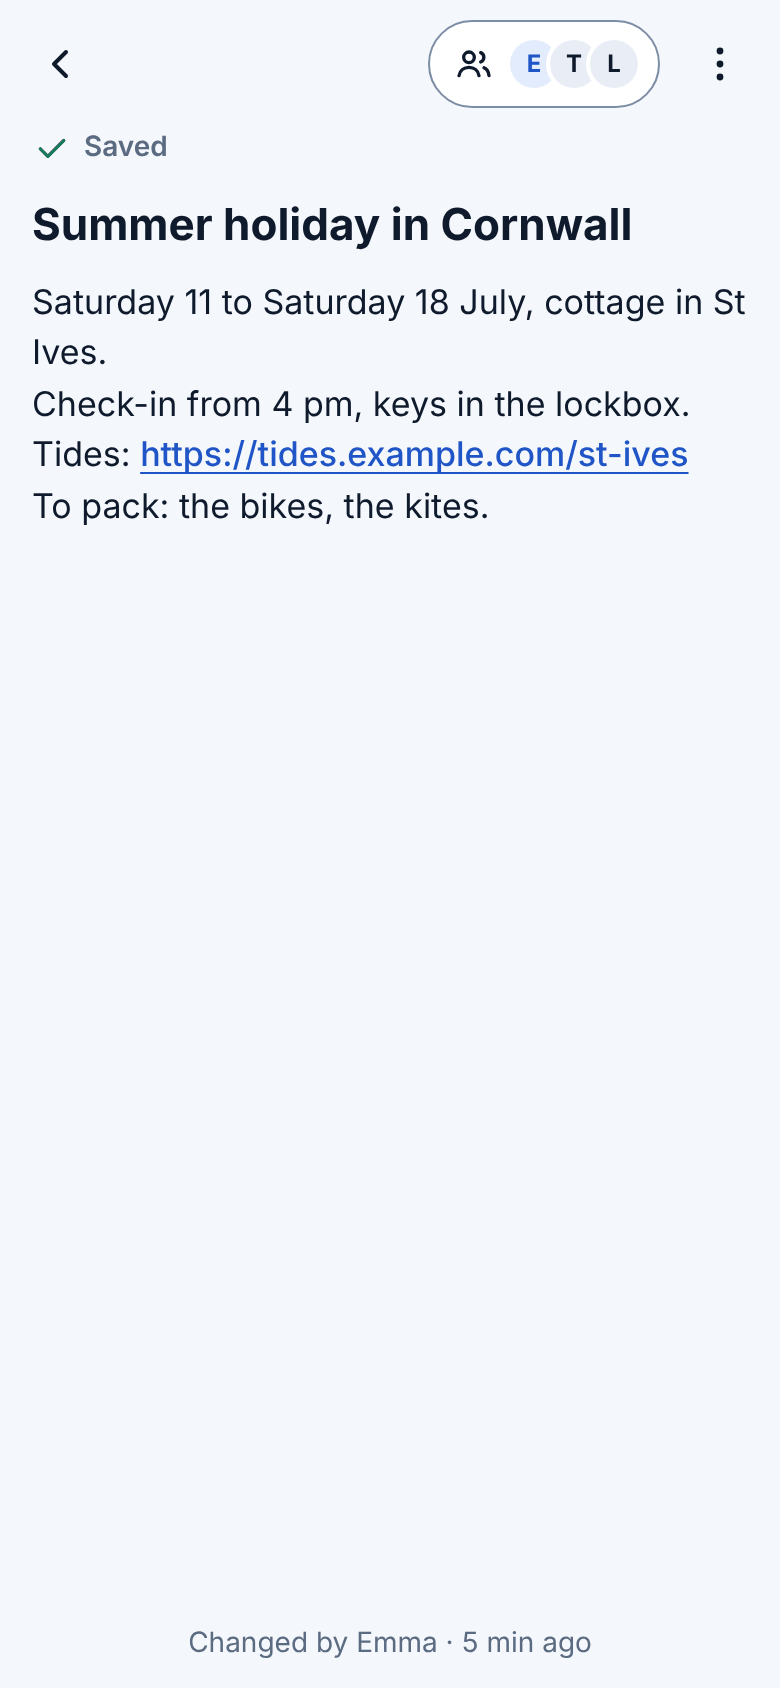
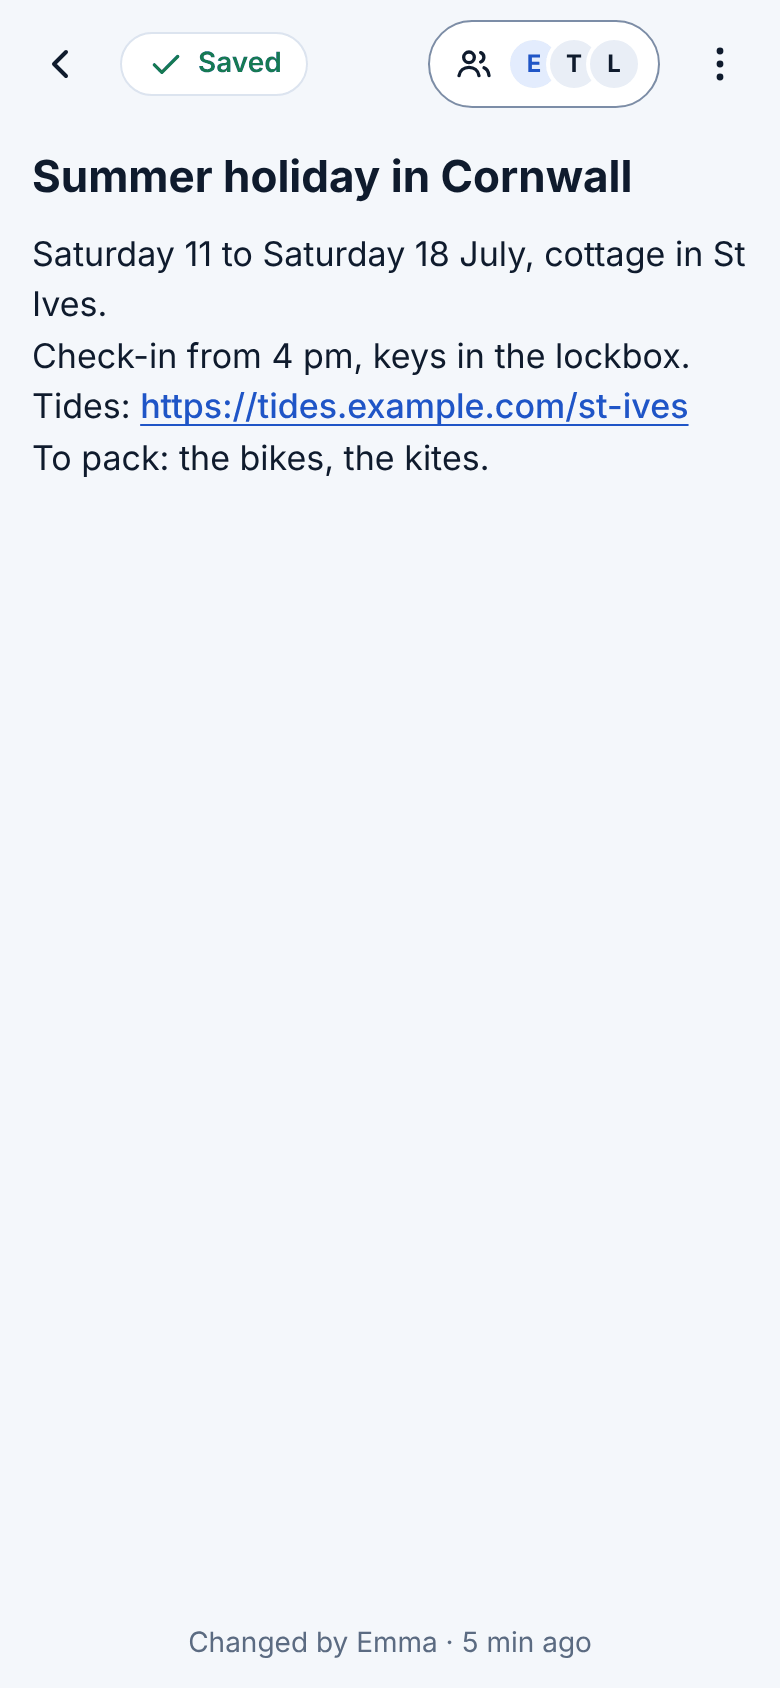
Note : « Enregistré » dans la barre du haut
La mention d'état d'une note devient une pastille dans la barre du haut,
comme « À jour » ailleurs (texte court sur le téléphone, phrase complète
pour les lecteurs d'écran) : la note gagne une ligne. Captures du README
de la note refaites.

Claude-Session: https://claude.ai/code/session_01RoZ4edsPjQcz3aEDFj3cbP

Changed region(s): [[0.0308, 0.0616, 0.9538, 0.3081], [0.2462, 0.0308, 0.3692, 0.0616]]

diff --git a/public/js/screens/note.js b/public/js/screens/note.js
@@ -198,24 +198,35 @@ export function noteEditor(initialId, onLeave, { pc }) {
     saveNow();
   });
 
-  // --- Mention d'état, bandeau, pied ---
-  const status = h('p', { class: 'note-status', role: 'status' });
+  // --- Mention d'état (pastille dans la barre du haut, comme « À jour »
+  // ailleurs ; décision du 23 novembre 2026), bandeau, pied ---
+  const status = h('p', { class: 'sync note-status', role: 'status', hidden: true });
   const banner = h('div', { class: 'note note-banner', role: 'alert', hidden: true });
   const foot = h('p', { class: 'note-foot' });
 
+  // [classe, icône, texte court affiché, texte complet lu] ; sur le
+  // téléphone la pastille montre le texte court (place de la barre du
+  // haut), les lecteurs d'écran lisent la phrase complète
   function drawStatus() {
     let state;
-    if (kept()) state = ['note-status--check', 'alert', t(pc ? 'notes.statut.aVerifier.pc' : 'notes.statut.aVerifier')];
-    else if (readOnly()) state = ['', 'eye', t('notes.statut.lectureSeule')];
+    if (kept()) state = ['note-status--check', 'alert', t('notes.aVerifier'), t(pc ? 'notes.statut.aVerifier.pc' : 'notes.statut.aVerifier')];
+    else if (readOnly()) state = ['', 'eye', t('notes.statut.lectureSeule'), t('notes.statut.lectureSeule')];
     else if (dirty || saving || (noteId && actions.notePending(noteId))) {
       state = currentSyncState() === 'off' && !dirty
-        ? ['', 'cloud-off', t(pc ? 'notes.statut.horsLigne.pc' : 'notes.statut.horsLigne')]
-        : ['', 'sync', t('notes.statut.enCours')];
-    } else if (noteId && note() && !note().deletedAt) state = ['note-status--ok', 'check', t('notes.statut.enregistre')];
+        ? ['sync--off', 'cloud-off', t('notes.statut.horsLigne.court'), t(pc ? 'notes.statut.horsLigne.pc' : 'notes.statut.horsLigne')]
+        : ['sync--busy', 'sync', t('notes.statut.enCours'), t('notes.statut.enCours')];
+    } else if (noteId && note() && !note().deletedAt) state = ['sync--ok', 'check', t('notes.statut.enregistre'), t('notes.statut.enregistre')];
     // (note introuvable ou supprimée : aucune mention, seulement « Note introuvable »)
     else state = null;
-    status.className = `note-status ${state?.[0] ?? ''}`.trim();
-    replace(status, state ? [icon(state[1], 'icon--sm'), state[2]] : null);
+    status.className = `sync note-status ${state?.[0] ?? ''}`.trim();
+    status.hidden = !state;
+    // Ordinateur : la phrase complète tient dans la barre de la note
+    const shown = state ? (pc ? state[3] : state[2]) : '';
+    replace(status, state ? [
+      icon(state[1], 'icon--sm'),
+      h('span', { class: 'sync__text', 'aria-hidden': shown === state[3] ? null : 'true' }, shown),
+      shown === state[3] ? null : h('span', { class: 'visually-hidden' }, state[3]),
+    ] : null);
   }
 
   // Qui a écrit la version actuelle : « Léa », ou moi (sur un autre appareil)
@@ -417,18 +428,18 @@ export function noteEditor(initialId, onLeave, { pc }) {
   if (isNew) queueMicrotask(() => edit(0));
 
   if (pc) {
-    const bar = h('div', { class: 'pc-note__bar' }, h('span', { class: 'grow' }), peopleButton, pinButton, menuButton,
+    const bar = h('div', { class: 'pc-note__bar' }, status, h('span', { class: 'grow' }), peopleButton, pinButton, menuButton,
       iconButton('close', t('notes.fermer'), () => navigate('notes', {}, { replace: true })));
-    return h('section', { class: 'pc-note', 'aria-labelledby': heading.id }, heading, bar, status, banner, scroll, foot);
+    return h('section', { class: 'pc-note', 'aria-labelledby': heading.id }, heading, bar, banner, scroll, foot);
   }
   return h('div', { class: 'screen' },
     h('header', { class: 'topbar' },
       iconButton('chev-l', t('notes.retour'), () => back()),
+      status,
       h('span', { class: 'grow' }),
       peopleButton,
       menuButton),
     heading,
-    status,
     banner,
     scroll,
     foot);

diff --git a/design/listo.css b/design/listo.css
@@ -1131,10 +1131,12 @@
 
 /* 16.26 Écran d'une note (#/notes/<id>)
    - Barre du haut : retour, menu ⋮ (Épingler, Dupliquer, Supprimer).
-   - .note-status : mention discrète sous la barre : « Enregistré »,
-     « Enregistrement… », « Hors ligne · enregistrée sur ce téléphone »,
-     --check « À vérifier » (conflit pas encore tranché : icône d'alerte ET
-     texte, couleur danger). role="status".
+   - .note-status : pastille .sync dans la barre du haut, comme « À jour »
+     ailleurs (décision du 23 novembre 2026) : « Enregistré » (--ok),
+     « Enregistrement… » (--busy), « Hors ligne » (--off), --check « À
+     vérifier » (conflit pas encore tranché : icône d'alerte ET texte,
+     couleur danger) ; sur le téléphone le texte court, la phrase complète
+     pour les lecteurs d'écran. role="status".
    - .note-edit : titre puis texte, sans cadre, qui occupent l'écran ;
      retours à la ligne gardés. Hors saisie, le texte est affiché avec ses
      adresses web en liens .note-link (texte d'accent souligné, ouverts dans
@@ -1145,9 +1147,10 @@
      cette note » sous la mention ; feuille du bas avec trois lignes .row
      (Garder la mienne, Prendre la leur, Garder les deux) et « Décider plus
      tard ». */
-.note-status { display: flex; flex: none; align-items: center; gap: 6px; min-height: 24px; margin: 0; padding: 0 var(--space-2) var(--space-0); font-size: var(--text-sm); font-weight: 600; color: var(--color-text-2); }
-.note-status--ok .icon { color: var(--color-success-ink); }
-.note-status--check { color: var(--color-danger-ink); }
+.note-status { flex: 0 1 auto; min-width: 0; margin: 0; }
+.note-status[hidden] { display: none; }
+.note-status .sync__text { overflow: hidden; text-overflow: ellipsis; }
+.note-status--check { border-color: var(--color-danger-ink); color: var(--color-danger-ink); }
 .note-edit { display: flex; flex-direction: column; gap: var(--space-1); padding: var(--space-1) var(--space-2) var(--space-3); }
 .note-edit__title { width: 100%; padding: 4px 0; border: 0; outline: 0; background: transparent; color: var(--color-text); font: inherit; font-size: var(--text-title); font-weight: 700; line-height: var(--lh-tight); }
 .note-edit__title::placeholder { color: var(--color-text-2); opacity: 1; }
@@ -1204,7 +1207,6 @@
 .pc-notes .notes-section { padding: 8px 0 0; }
 .pc-note { display: flex; flex-direction: column; min-height: 0; border-left: 1px solid var(--color-border); background: var(--color-surface); }
 .pc-note__bar { display: flex; align-items: center; gap: 8px; padding: 14px 16px 6px 20px; }
-.pc-note .note-status { padding: 0 20px 4px; }
 .pc-note__bar .icon-btn[aria-pressed="true"] { background: var(--color-accent-soft); color: var(--color-accent-ink); }
 .pc-note .note-edit { flex: 1; min-height: 0; overflow-y: auto; padding: 8px 28px 24px; }
 .pc-note .note-edit__body { font-size: var(--text-base); }

diff --git a/public/css/listo.css b/public/css/listo.css
@@ -1131,10 +1131,12 @@
 
 /* 16.26 Écran d'une note (#/notes/<id>)
    - Barre du haut : retour, menu ⋮ (Épingler, Dupliquer, Supprimer).
-   - .note-status : mention discrète sous la barre : « Enregistré »,
-     « Enregistrement… », « Hors ligne · enregistrée sur ce téléphone »,
-     --check « À vérifier » (conflit pas encore tranché : icône d'alerte ET
-     texte, couleur danger). role="status".
+   - .note-status : pastille .sync dans la barre du haut, comme « À jour »
+     ailleurs (décision du 23 novembre 2026) : « Enregistré » (--ok),
+     « Enregistrement… » (--busy), « Hors ligne » (--off), --check « À
+     vérifier » (conflit pas encore tranché : icône d'alerte ET texte,
+     couleur danger) ; sur le téléphone le texte court, la phrase complète
+     pour les lecteurs d'écran. role="status".
    - .note-edit : titre puis texte, sans cadre, qui occupent l'écran ;
      retours à la ligne gardés. Hors saisie, le texte est affiché avec ses
      adresses web en liens .note-link (texte d'accent souligné, ouverts dans
@@ -1145,9 +1147,10 @@
      cette note » sous la mention ; feuille du bas avec trois lignes .row
      (Garder la mienne, Prendre la leur, Garder les deux) et « Décider plus
      tard ». */
-.note-status { display: flex; flex: none; align-items: center; gap: 6px; min-height: 24px; margin: 0; padding: 0 var(--space-2) var(--space-0); font-size: var(--text-sm); font-weight: 600; color: var(--color-text-2); }
-.note-status--ok .icon { color: var(--color-success-ink); }
-.note-status--check { color: var(--color-danger-ink); }
+.note-status { flex: 0 1 auto; min-width: 0; margin: 0; }
+.note-status[hidden] { display: none; }
+.note-status .sync__text { overflow: hidden; text-overflow: ellipsis; }
+.note-status--check { border-color: var(--color-danger-ink); color: var(--color-danger-ink); }
 .note-edit { display: flex; flex-direction: column; gap: var(--space-1); padding: var(--space-1) var(--space-2) var(--space-3); }
 .note-edit__title { width: 100%; padding: 4px 0; border: 0; outline: 0; background: transparent; color: var(--color-text); font: inherit; font-size: var(--text-title); font-weight: 700; line-height: var(--lh-tight); }
 .note-edit__title::placeholder { color: var(--color-text-2); opacity: 1; }
@@ -1204,7 +1207,6 @@
 .pc-notes .notes-section { padding: 8px 0 0; }
 .pc-note { display: flex; flex-direction: column; min-height: 0; border-left: 1px solid var(--color-border); background: var(--color-surface); }
 .pc-note__bar { display: flex; align-items: center; gap: 8px; padding: 14px 16px 6px 20px; }
-.pc-note .note-status { padding: 0 20px 4px; }
 .pc-note__bar .icon-btn[aria-pressed="true"] { background: var(--color-accent-soft); color: var(--color-accent-ink); }
 .pc-note .note-edit { flex: 1; min-height: 0; overflow-y: auto; padding: 8px 28px 24px; }
 .pc-note .note-edit__body { font-size: var(--text-base); }

diff --git a/site/listo.css b/site/listo.css
@@ -1131,10 +1131,12 @@
 
 /* 16.26 Écran d'une note (#/notes/<id>)
    - Barre du haut : retour, menu ⋮ (Épingler, Dupliquer, Supprimer).
-   - .note-status : mention discrète sous la barre : « Enregistré »,
-     « Enregistrement… », « Hors ligne · enregistrée sur ce téléphone »,
-     --check « À vérifier » (conflit pas encore tranché : icône d'alerte ET
-     texte, couleur danger). role="status".
+   - .note-status : pastille .sync dans la barre du haut, comme « À jour »
+     ailleurs (décision du 23 novembre 2026) : « Enregistré » (--ok),
+     « Enregistrement… » (--busy), « Hors ligne » (--off), --check « À
+     vérifier » (conflit pas encore tranché : icône d'alerte ET texte,
+     couleur danger) ; sur le téléphone le texte court, la phrase complète
+     pour les lecteurs d'écran. role="status".
    - .note-edit : titre puis texte, sans cadre, qui occupent l'écran ;
      retours à la ligne gardés. Hors saisie, le texte est affiché avec ses
      adresses web en liens .note-link (texte d'accent souligné, ouverts dans
@@ -1145,9 +1147,10 @@
      cette note » sous la mention ; feuille du bas avec trois lignes .row
      (Garder la mienne, Prendre la leur, Garder les deux) et « Décider plus
      tard ». */
-.note-status { display: flex; flex: none; align-items: center; gap: 6px; min-height: 24px; margin: 0; padding: 0 var(--space-2) var(--space-0); font-size: var(--text-sm); font-weight: 600; color: var(--color-text-2); }
-.note-status--ok .icon { color: var(--color-success-ink); }
-.note-status--check { color: var(--color-danger-ink); }
+.note-status { flex: 0 1 auto; min-width: 0; margin: 0; }
+.note-status[hidden] { display: none; }
+.note-status .sync__text { overflow: hidden; text-overflow: ellipsis; }
+.note-status--check { border-color: var(--color-danger-ink); color: var(--color-danger-ink); }
 .note-edit { display: flex; flex-direction: column; gap: var(--space-1); padding: var(--space-1) var(--space-2) var(--space-3); }
 .note-edit__title { width: 100%; padding: 4px 0; border: 0; outline: 0; background: transparent; color: var(--color-text); font: inherit; font-size: var(--text-title); font-weight: 700; line-height: var(--lh-tight); }
 .note-edit__title::placeholder { color: var(--color-text-2); opacity: 1; }
@@ -1204,7 +1207,6 @@
 .pc-notes .notes-section { padding: 8px 0 0; }
 .pc-note { display: flex; flex-direction: column; min-height: 0; border-left: 1px solid var(--color-border); background: var(--color-surface); }
 .pc-note__bar { display: flex; align-items: center; gap: 8px; padding: 14px 16px 6px 20px; }
-.pc-note .note-status { padding: 0 20px 4px; }
 .pc-note__bar .icon-btn[aria-pressed="true"] { background: var(--color-accent-soft); color: var(--color-accent-ink); }
 .pc-note .note-edit { flex: 1; min-height: 0; overflow-y: auto; padding: 8px 28px 24px; }
 .pc-note .note-edit__body { font-size: var(--text-base); }

diff --git a/test/notes-ui.test.js b/test/notes-ui.test.js
@@ -149,5 +149,5 @@ test('textes : français et anglais, noms des écrans des notes', () => {
 
 test('note introuvable ou supprimée : aucune mention « Enregistré » au-dessus de « Note introuvable »', () => {
   const note = read('public/js/screens/note.js');
-  assert.match(note, /\} else if \(noteId && note\(\) && !note\(\)\.deletedAt\) state = \['note-status--ok', 'check', t\('notes\.statut\.enregistre'\)\];/);
+  assert.match(note, /\} else if \(noteId && note\(\) && !note\(\)\.deletedAt\) state = \['sync--ok', 'check', t\('notes\.statut\.enregistre'\), t\('notes\.statut\.enregistre'\)\];/);
 });

diff --git a/public/js/i18n/fr/notes.js b/public/js/i18n/fr/notes.js
@@ -53,6 +53,7 @@ export default {
   'notes.statut.enregistre': 'Enregistré',
   'notes.statut.enCours': 'Enregistrement…',
   'notes.statut.horsLigne': 'Hors ligne · enregistrée sur ce téléphone',
+  'notes.statut.horsLigne.court': 'Hors ligne',
   'notes.statut.aVerifier': 'À vérifier · votre version reste sur ce téléphone',
   // Sur ordinateur, « cet appareil » (jamais « ce téléphone »)
   'notes.statut.horsLigne.pc': 'Hors ligne · enregistrée sur cet appareil',

diff --git a/public/js/i18n/en/notes.js b/public/js/i18n/en/notes.js
@@ -52,6 +52,7 @@ export default {
   'notes.statut.enregistre': 'Saved',
   'notes.statut.enCours': 'Saving…',
   'notes.statut.horsLigne': 'Offline · saved on this phone',
+  'notes.statut.horsLigne.court': 'Offline',
   'notes.statut.aVerifier': 'Needs checking · your version stays on this phone',
   // On a computer, “this device” (never “this phone”)
   'notes.statut.horsLigne.pc': 'Offline · saved on this device',

diff --git a/public/sw.js b/public/sw.js
@@ -51,7 +51,7 @@
 // VERSION quand un fichier de l'application ou leur liste change.
 
 const BUILD = null; // remplacé par le serveur (null : développement)
-const VERSION = `v145-${BUILD ?? 'dev'}`;
+const VERSION = `v146-${BUILD ?? 'dev'}`;
 const APP_CACHE = `listo-app-${VERSION}`;
 const PHOTO_CACHE = 'listo-photos';
 // Lecteur de codes-barres : le nom du cache suit le dossier de sa version
